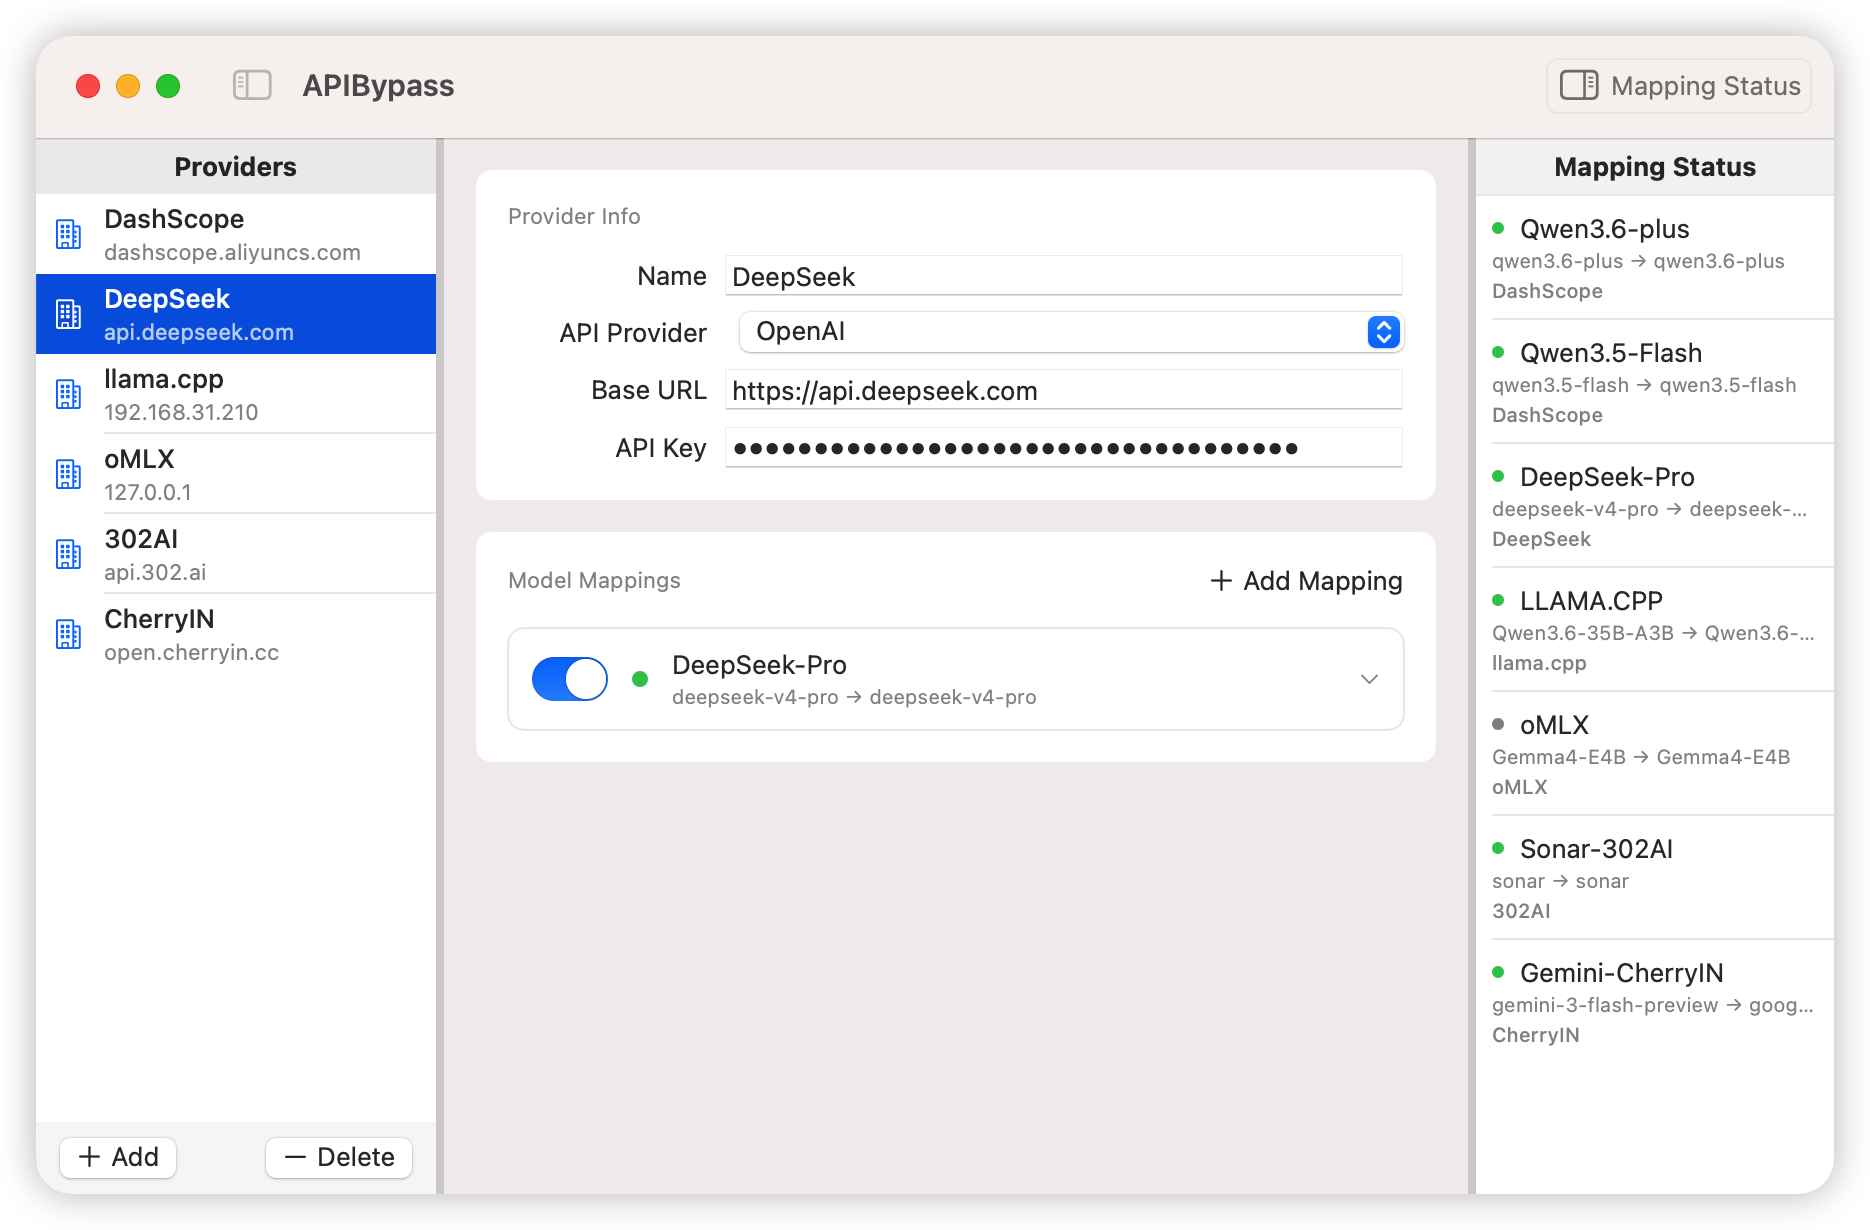
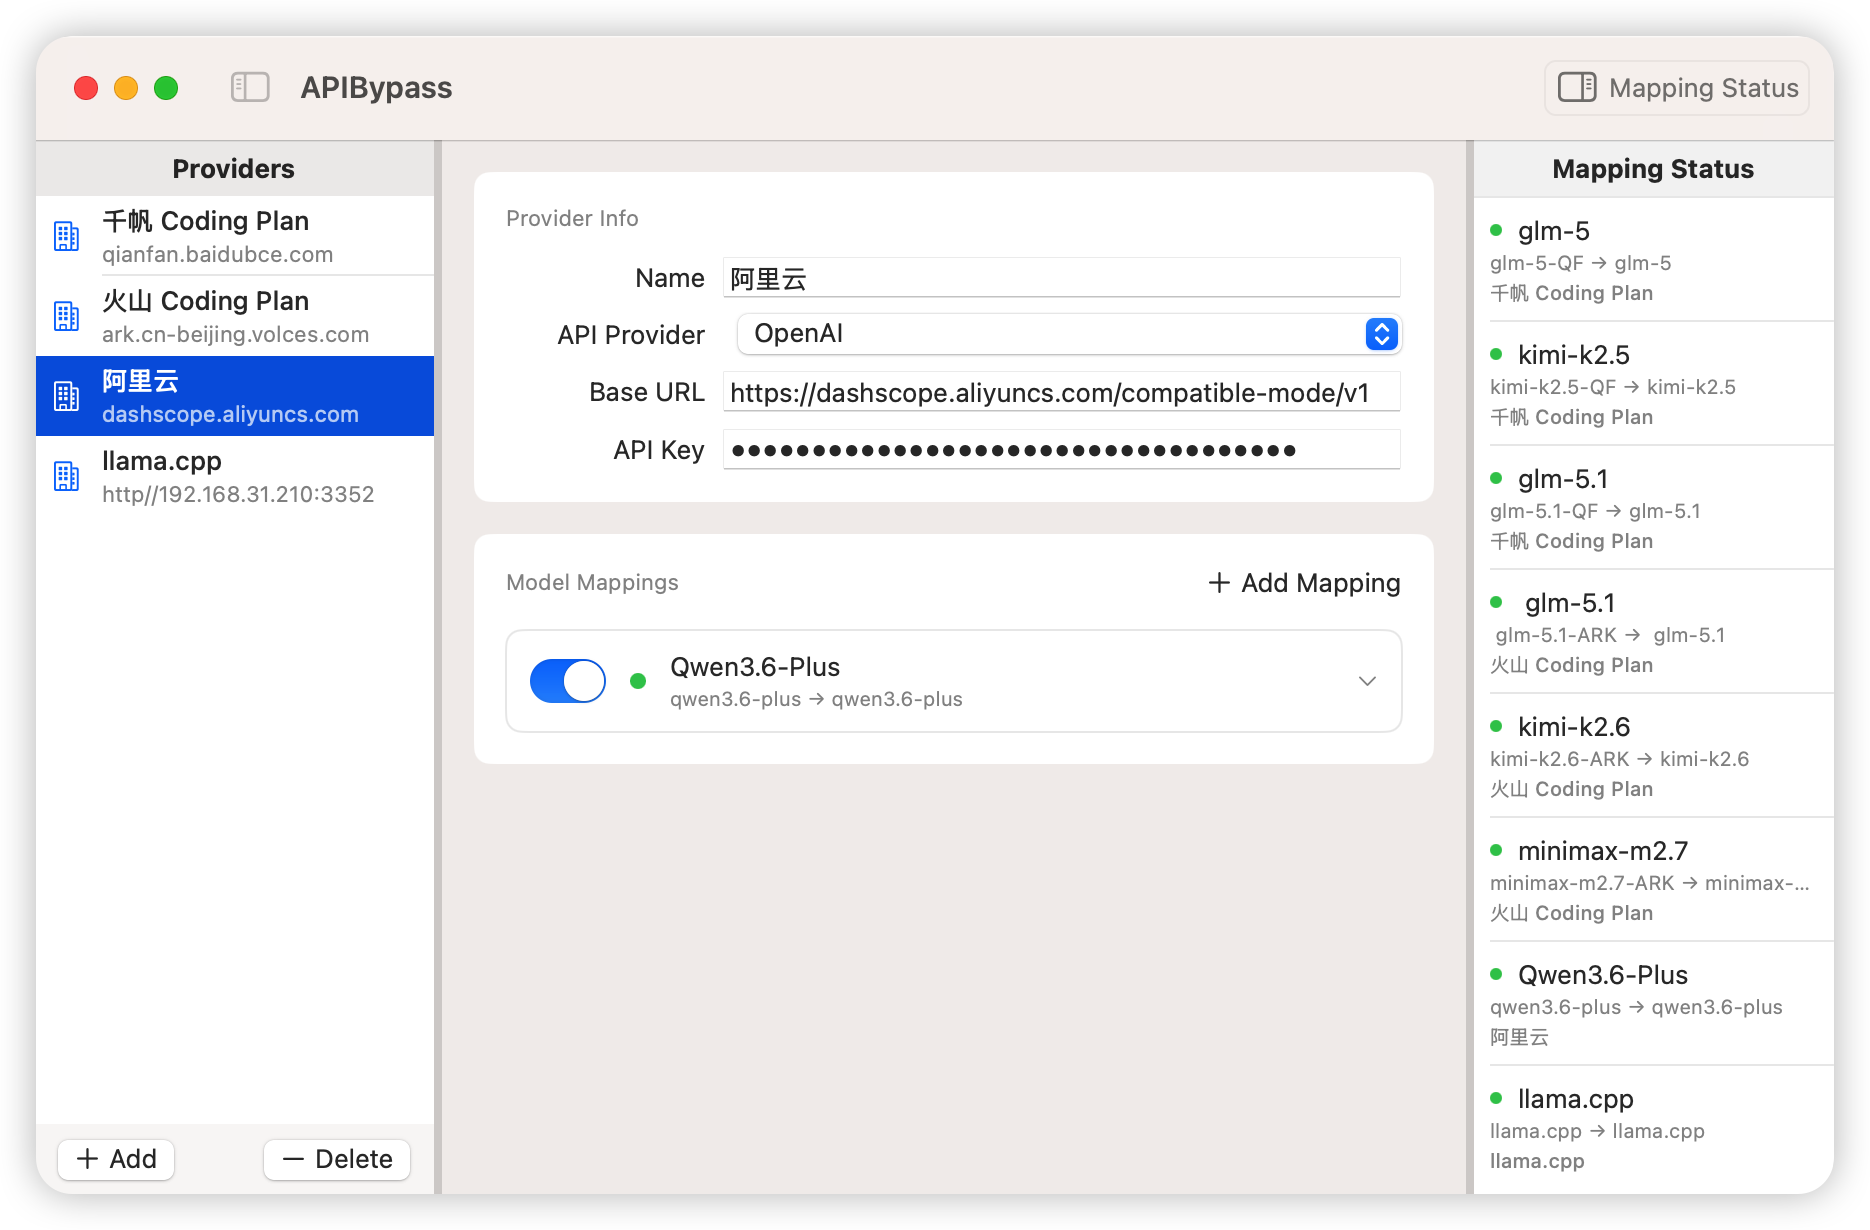
chore: update GitHub link display and screenshots
- Remove "GitHub:" prefix from settings link
- Update screenshots
- Update .gitignore

diff --git a/APIBypass/Core/LocalizationManager.swift b/APIBypass/Core/LocalizationManager.swift
@@ -60,7 +60,7 @@ struct L10n {
         "about": [.chinese: "关于", .english: "About"],
         "about_description": [.chinese: "APIBypass 是一款 API 模型映射代理工具，可拦截客户端请求并注入自定义参数，无缝切换模型提供商。", .english: "APIBypass is an API model mapping proxy that intercepts client requests and injects custom parameters for seamless model provider switching."],
         "license": [.chinese: "许可证: MIT License", .english: "License: MIT License"],
-        "github_repo": [.chinese: "GitHub: https://github.com/panando/APIBypass", .english: "GitHub: https://github.com/panando/APIBypass"],
+        "github_repo": [.chinese: "https://github.com/panando/APIBypass", .english: "https://github.com/panando/APIBypass"],
 
         // 配置窗口
         "model_mapping": [.chinese: "模型映射", .english: "Model Mapping"],
